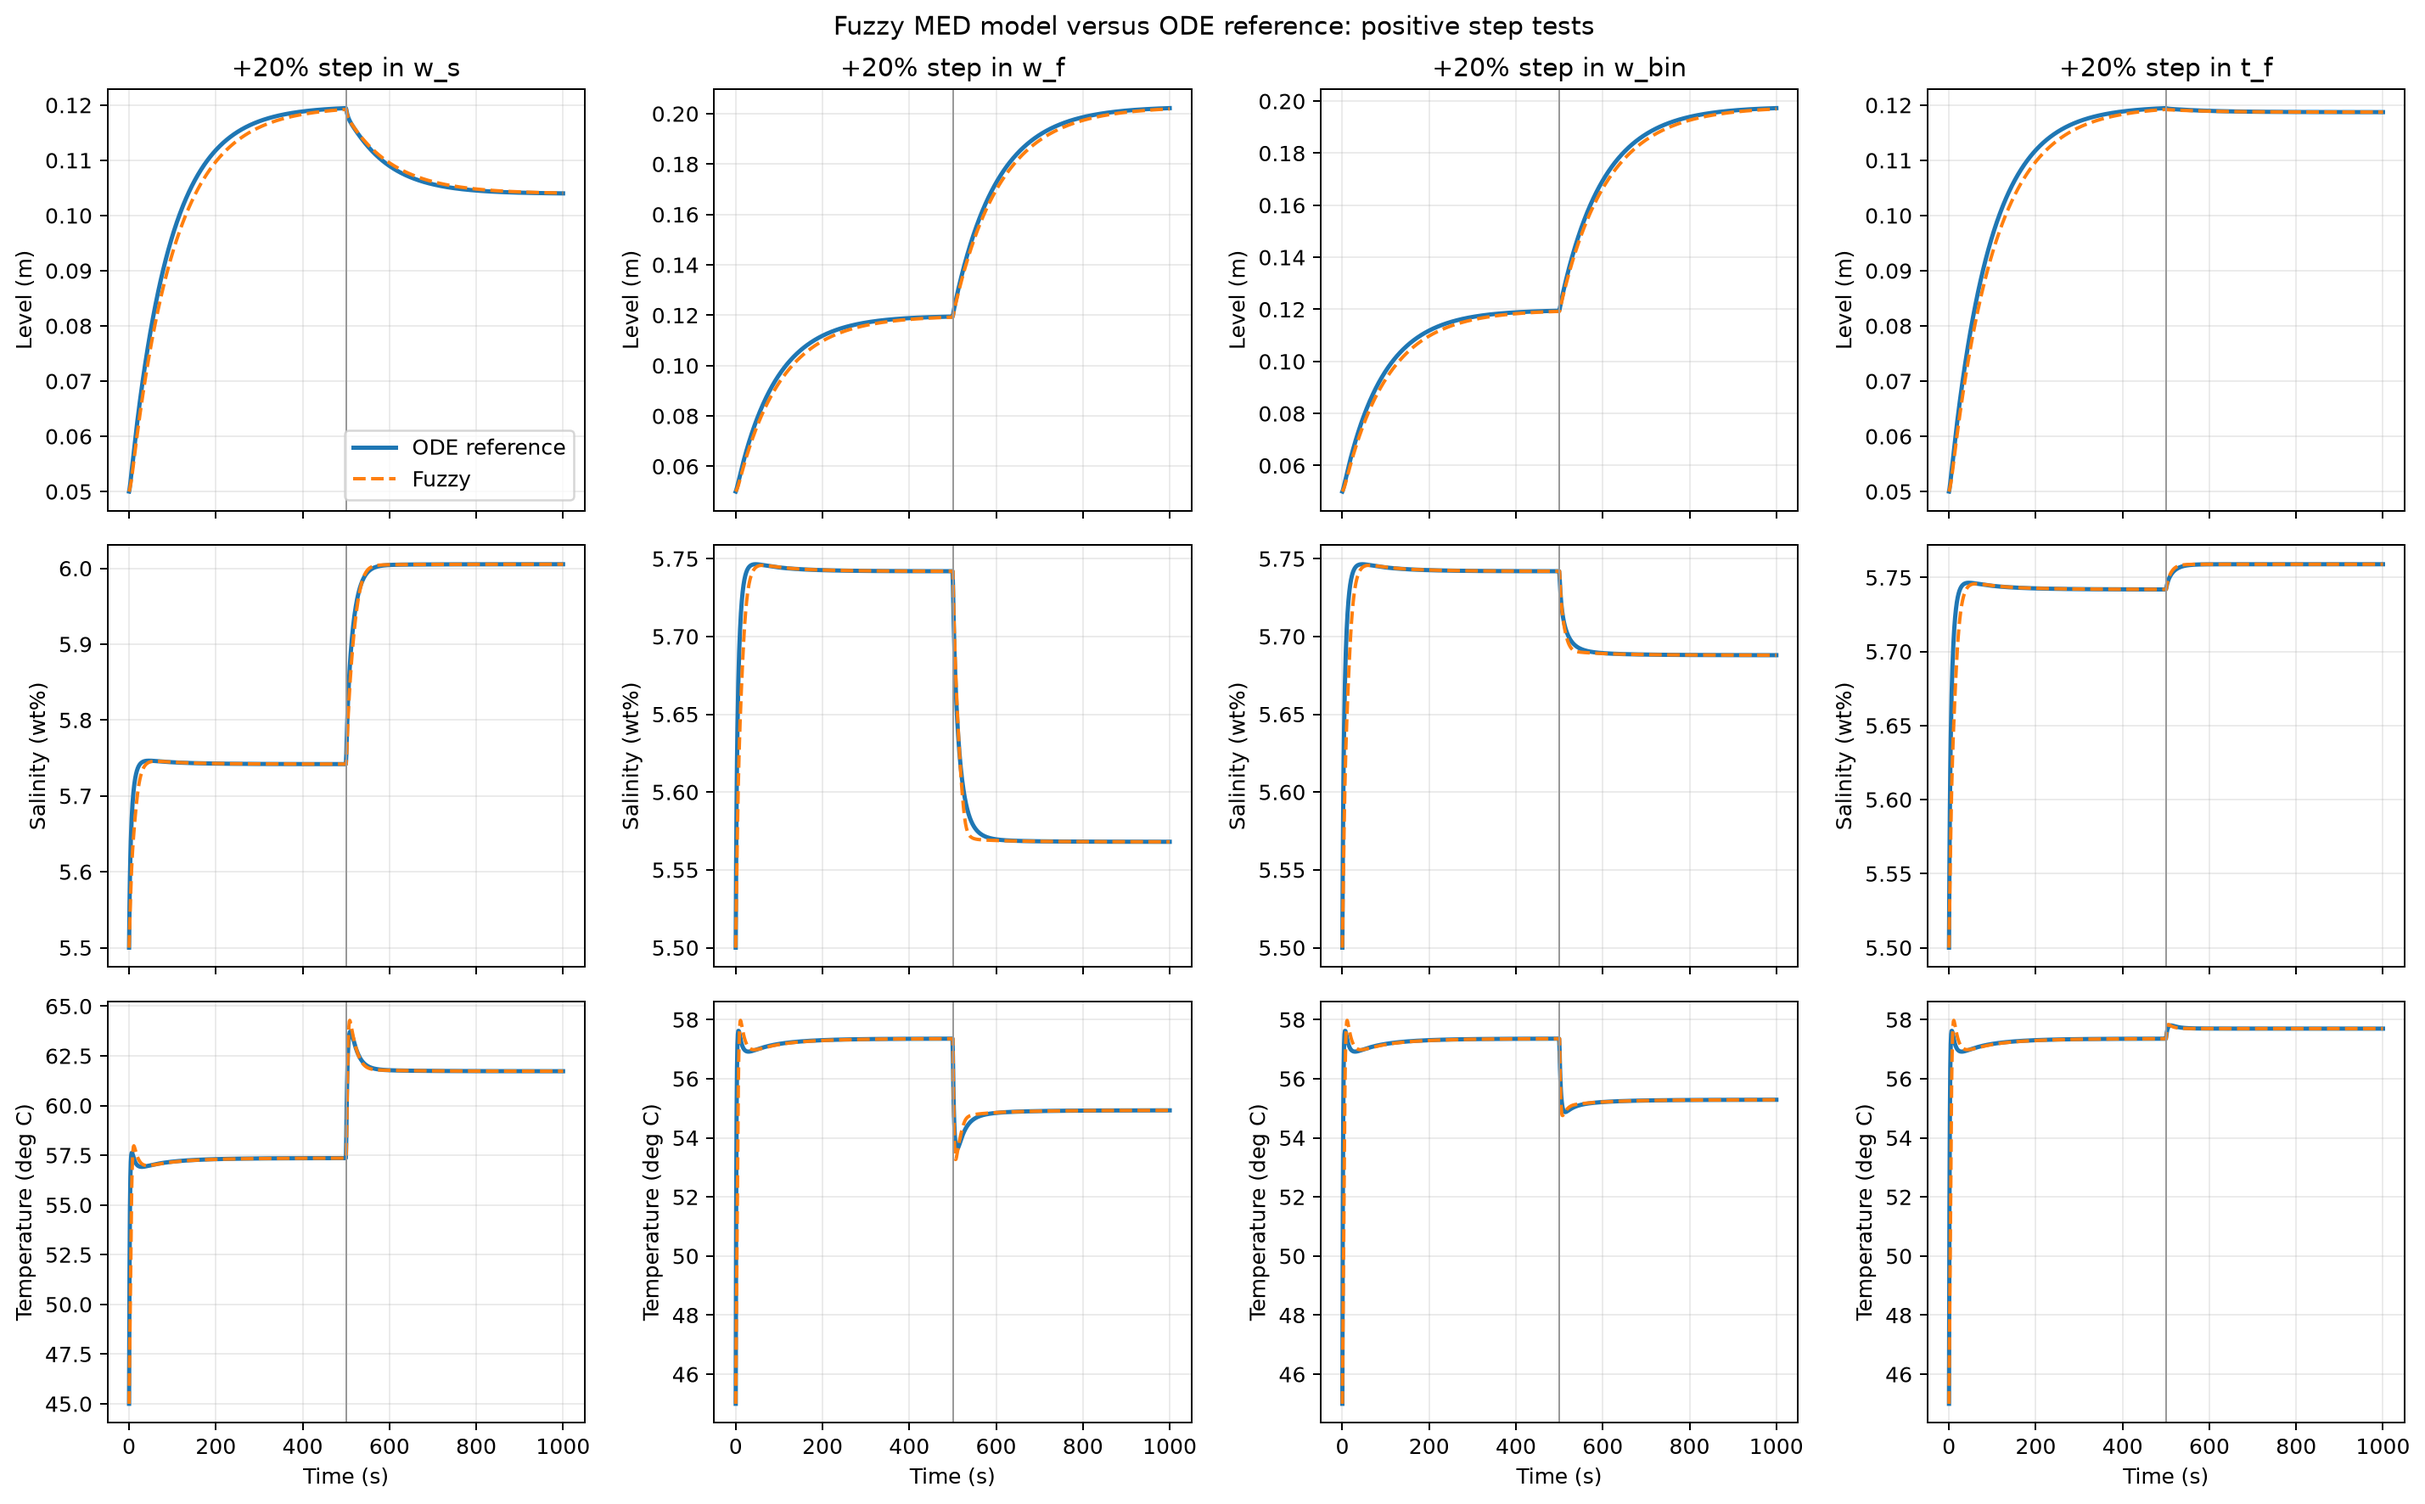
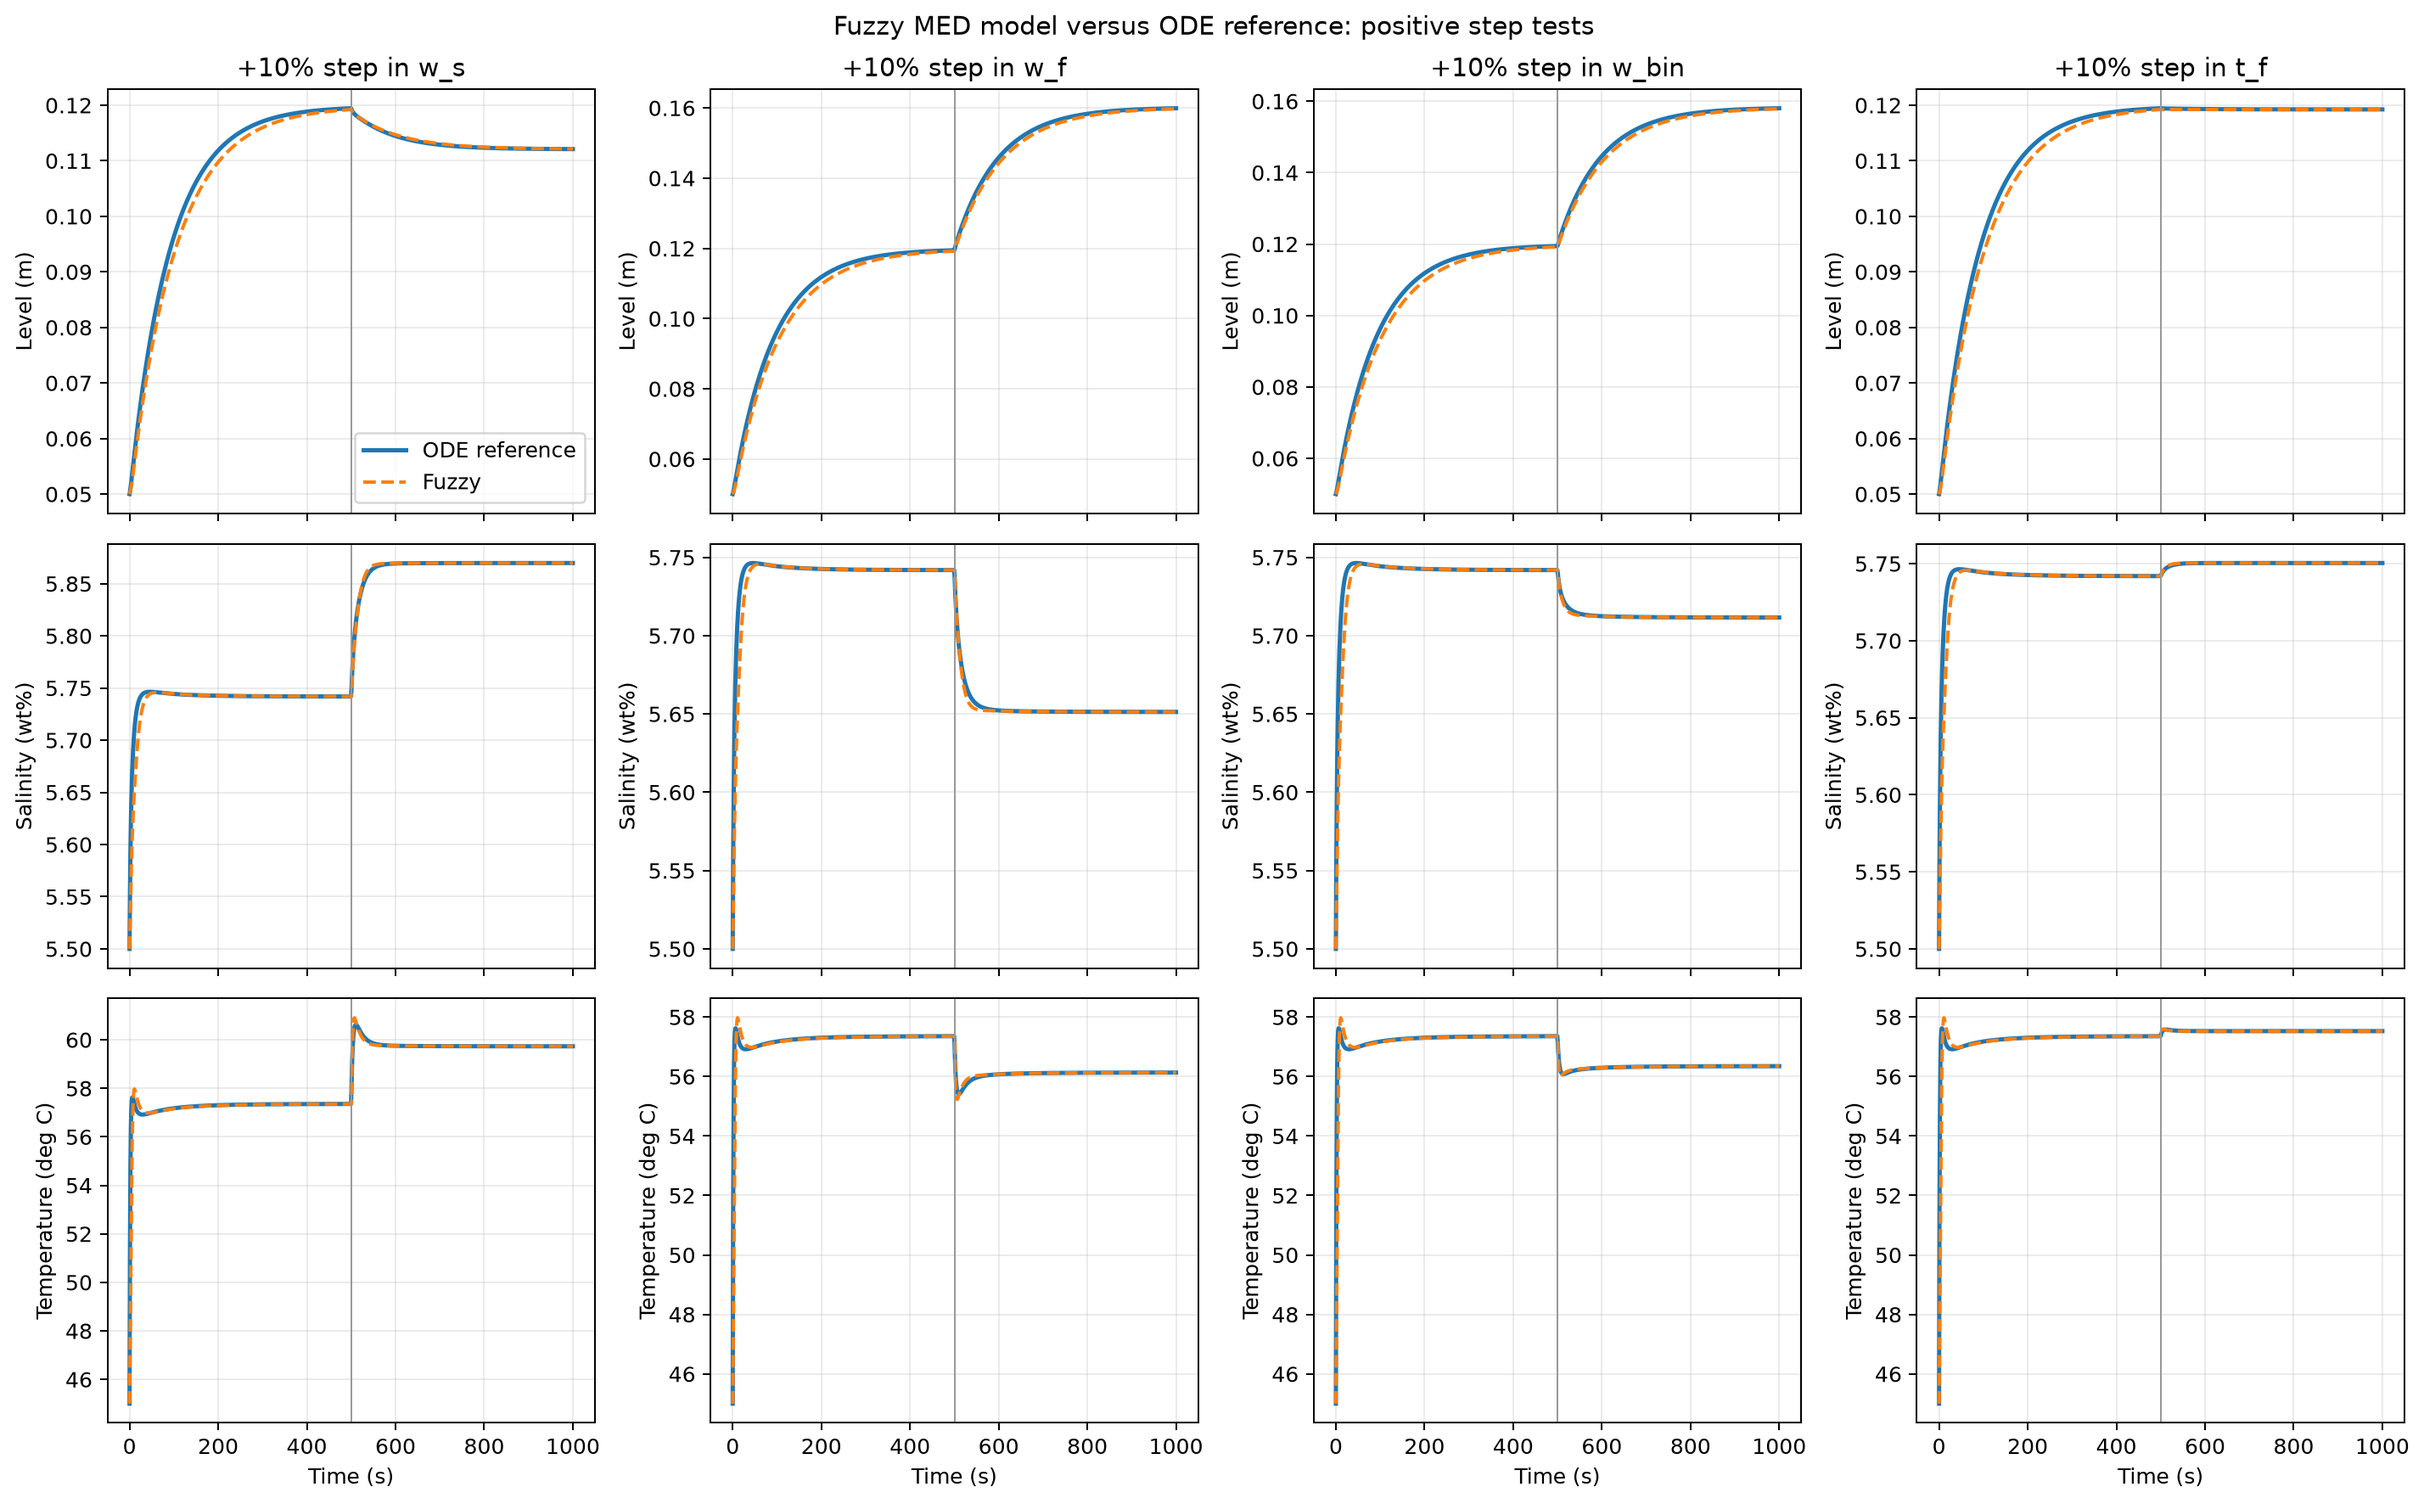
remove test file

diff --git a/more_accurate_model/fuzzy_model/validate_fuzzy_model.py b/more_accurate_model/fuzzy_model/validate_fuzzy_model.py
@@ -81,8 +81,8 @@ def run_case(variable_name=None, step_change=0.0):
 
 def main():
     scenarios = [("baseline", None, 0.0)]
-    scenarios.extend((f"{name}_plus_20pct", name, 0.20) for name in STEP_VARIABLES)
-    scenarios.extend((f"{name}_minus_20pct", name, -0.20) for name in STEP_VARIABLES)
+    scenarios.extend((f"{name}_plus_10pct", name, 0.10) for name in STEP_VARIABLES)
+    scenarios.extend((f"{name}_minus_10pct", name, -0.10) for name in STEP_VARIABLES)
 
     output_dir = ROOT_DIR / "validation"
     output_dir.mkdir(exist_ok=True)
@@ -132,14 +132,14 @@ def main():
 
     figure, axes = plt.subplots(3, 4, figsize=(16, 10), sharex=True)
     for column, step_variable in enumerate(STEP_VARIABLES):
-        time, fuzzy_series, reference_series = results[f"{step_variable}_plus_20pct"]
+        time, fuzzy_series, reference_series = results[f"{step_variable}_plus_10pct"]
         for row, (label, unit, _scale) in enumerate(VARIABLES[:3]):
             axes[row, column].plot(time, reference_series[row], label="ODE reference", lw=2.0)
             axes[row, column].plot(time, fuzzy_series[row], "--", label="Fuzzy", lw=1.6)
             axes[row, column].axvline(time[len(time) // 2], color="0.6", lw=0.8)
             axes[row, column].grid(alpha=0.25)
             axes[row, column].set_ylabel(f"{label} ({unit})")
-        axes[0, column].set_title(f"+20% step in {step_variable}")
+        axes[0, column].set_title(f"+10% step in {step_variable}")
         axes[-1, column].set_xlabel("Time (s)")
     axes[0, 0].legend()
     figure.suptitle("Fuzzy MED model versus ODE reference: positive step tests")
